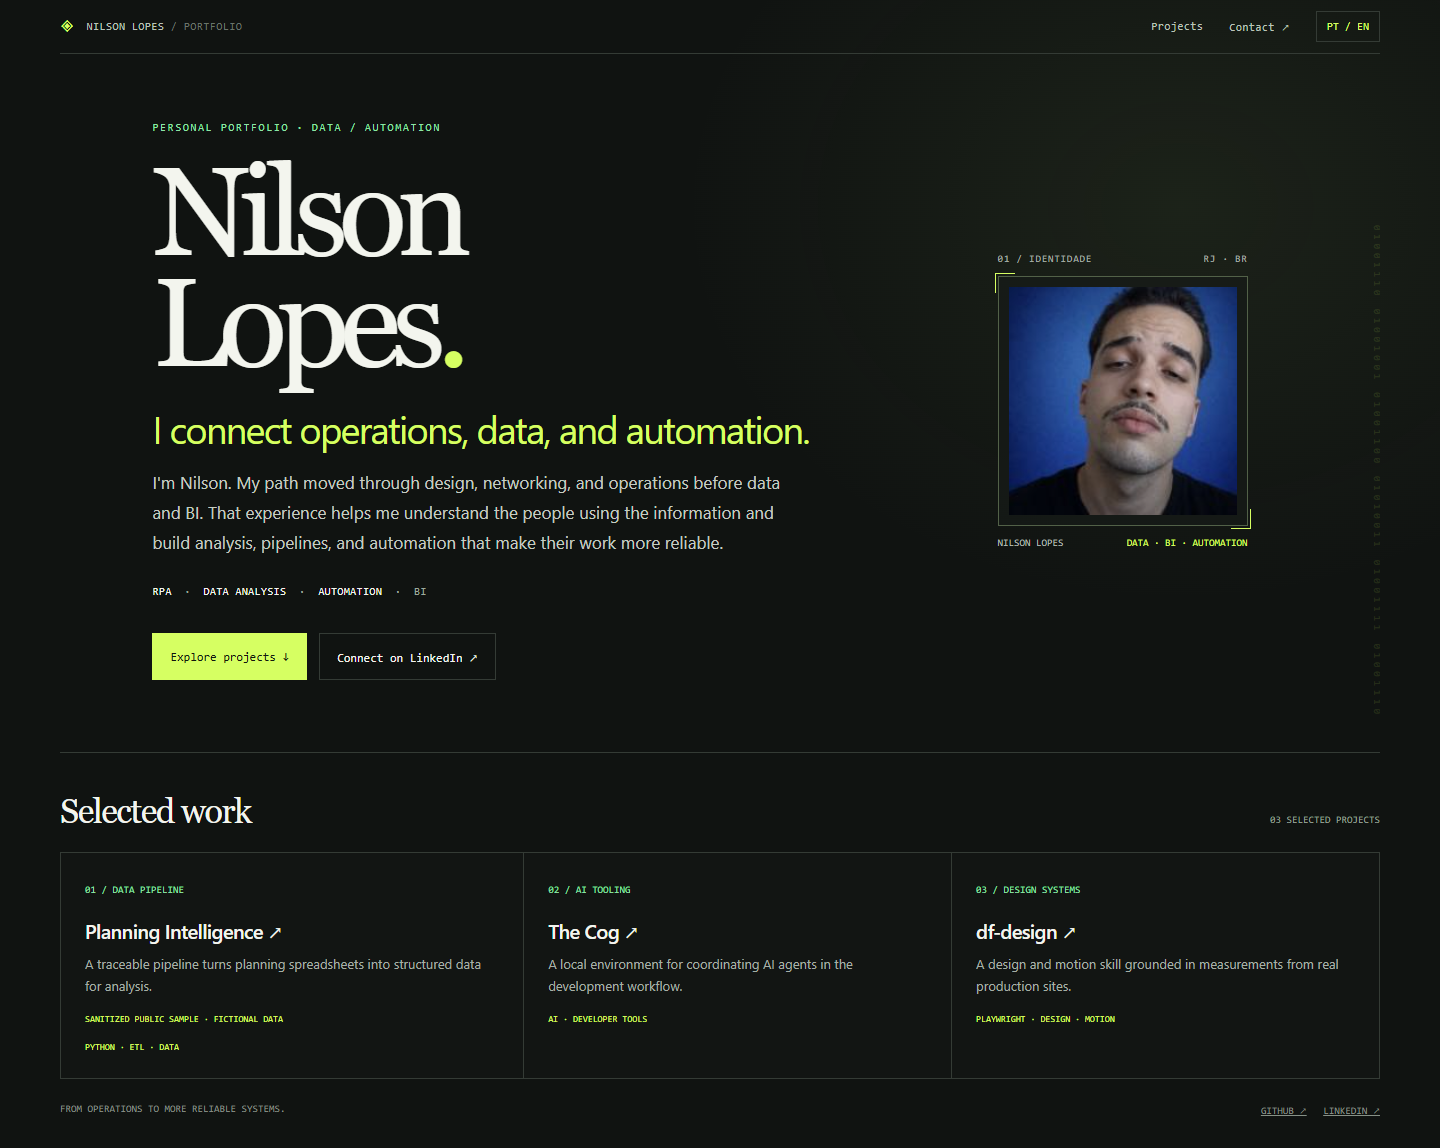
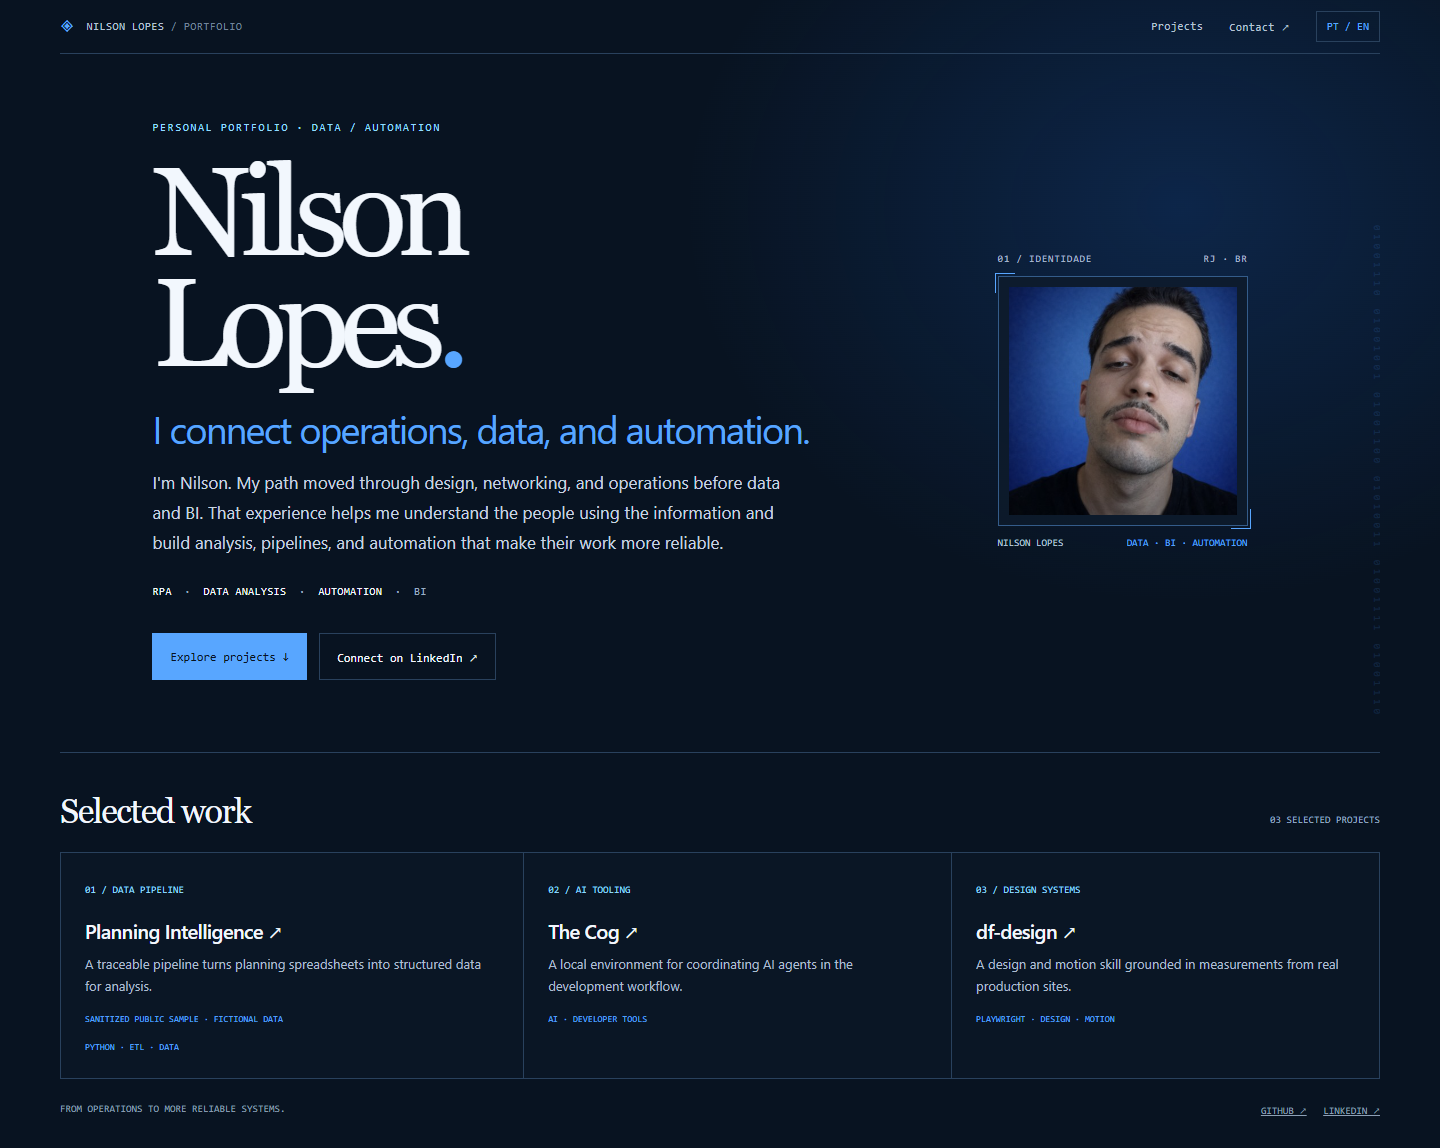
Match portfolio preview palette to portrait

diff --git a/design/preview/index.html b/design/preview/index.html
@@ -3,19 +3,19 @@
 <head>
   <meta charset="utf-8">
   <meta name="viewport" content="width=device-width, initial-scale=1">
-  <meta name="theme-color" content="#101311">
+  <meta name="theme-color" content="#081321">
   <link rel="icon" href="data:,">
   <title>Nilson Lopes — Portfólio / preview</title>
   <style>
     :root {
       color-scheme: dark;
-      --bg: #101311;
-      --panel: #151a17;
-      --line: #343b35;
-      --muted: #a1aaa1;
-      --paper: #f3f5ee;
-      --acid: #d6ff62;
-      --mint: #8ce5a4;
+      --bg: #081321;
+      --panel: #0f1d2e;
+      --line: #29415d;
+      --muted: #a7b7c8;
+      --paper: #f2f7fd;
+      --signal: #58a6ff;
+      --cyan: #91dcff;
       --mono: "Cascadia Code", "SFMono-Regular", Consolas, monospace;
       --sans: "Aptos", "Segoe UI", Arial, sans-serif;
       --serif: Georgia, "Times New Roman", serif;
@@ -27,7 +27,7 @@
       color: var(--paper);
       font-family: var(--sans);
       background:
-        radial-gradient(ellipse at 82% 18%, rgba(126, 159, 92, .11), transparent 31rem),
+        radial-gradient(ellipse at 82% 18%, rgba(32, 113, 232, .20), transparent 31rem),
         var(--bg);
     }
     a { color: inherit; }
@@ -35,14 +35,14 @@
     .mono { font-family: var(--mono); }
     .topline {
       height: 54px; border-bottom: 1px solid var(--line); display: flex;
-      align-items: center; justify-content: space-between; color: #bbc3b9;
+      align-items: center; justify-content: space-between; color: #b5c3d4;
       font: 11px var(--mono); letter-spacing: .04em;
     }
     .brand { display: flex; align-items: center; gap: 12px; }
-    .brand-mark { color: var(--acid); font-size: 17px; }
+    .brand-mark { color: var(--signal); font-size: 17px; }
     .top-right { display: flex; align-items: center; gap: 26px; }
     .top-right a { text-decoration: none; }
-    .lang { border: 1px solid var(--line); padding: 8px 10px; color: var(--acid); background: transparent; font: 11px var(--mono); cursor: pointer; }
+    .lang { border: 1px solid var(--line); padding: 8px 10px; color: var(--signal); background: transparent; font: 11px var(--mono); cursor: pointer; }
     .hero {
       min-height: 610px; display: grid; grid-template-columns: minmax(0, 1.5fr) minmax(300px, .7fr);
       align-items: center; gap: 9%; padding: 67px 7% 72px; position: relative; overflow: hidden;
@@ -50,43 +50,43 @@
     }
     .hero::before {
       content: "01001110  01001001  01001100  01010011  01001111  01001110";
-      position: absolute; right: -3px; bottom: 35px; color: rgba(214,255,98,.10);
+      position: absolute; right: -3px; bottom: 35px; color: rgba(88,166,255,.12);
       font: 10px var(--mono); letter-spacing: .38em; writing-mode: vertical-rl;
     }
     .hero-copy { position: relative; z-index: 1; }
-    .eyebrow { margin: 0 0 22px; color: var(--mint); font: 11px var(--mono); letter-spacing: .14em; text-transform: uppercase; }
+    .eyebrow { margin: 0 0 22px; color: var(--cyan); font: 11px var(--mono); letter-spacing: .14em; text-transform: uppercase; }
     h1 { margin: 0; font: 500 clamp(64px, 9vw, 126px)/.88 var(--serif); letter-spacing: -.075em; }
-    .role-line { margin: 30px 0 18px; max-width: 720px; color: var(--acid); font-size: clamp(23px, 3vw, 38px); line-height: 1.12; letter-spacing: -.045em; }
-    .intro { max-width: 640px; margin: 0; color: #c5ccc2; font-size: 17px; line-height: 1.75; }
-    .focus { margin-top: 24px; color: #9da89e; font: 11px/1.9 var(--mono); letter-spacing: .03em; }
+    .role-line { margin: 30px 0 18px; max-width: 720px; color: var(--signal); font-size: clamp(23px, 3vw, 38px); line-height: 1.12; letter-spacing: -.045em; }
+    .intro { max-width: 640px; margin: 0; color: #c8d4e2; font-size: 17px; line-height: 1.75; }
+    .focus { margin-top: 24px; color: #9aadc3; font: 11px/1.9 var(--mono); letter-spacing: .03em; }
     .focus b { color: var(--paper); font-weight: 400; }
     .actions { margin-top: 31px; display: flex; gap: 12px; flex-wrap: wrap; }
     .button { display: inline-flex; justify-content: center; align-items: center; min-height: 47px; padding: 0 17px; text-decoration: none; font: 12px var(--mono); border: 1px solid var(--line); transition: border-color .2s, background .2s, color .2s; }
-    .button.primary { background: var(--acid); color: #12170d; border-color: var(--acid); }
-    .button:hover { border-color: var(--acid); }
-    .button.primary:hover { background: #e5ff9e; }
+    .button.primary { background: var(--signal); color: #071321; border-color: var(--signal); }
+    .button:hover { border-color: var(--signal); }
+    .button.primary:hover { background: #8dc7ff; }
     .portrait-wrap { justify-self: end; width: min(100%, 250px); position: relative; }
-    .portrait-meta { display: flex; justify-content: space-between; margin-bottom: 11px; color: #a4aea5; font: 10px var(--mono); letter-spacing: .08em; }
-    .portrait-frame { position: relative; border: 1px solid #526148; padding: 10px; background: rgba(21,26,23,.7); }
-    .portrait-frame::before, .portrait-frame::after { content: ""; position: absolute; width: 19px; height: 19px; border-color: var(--acid); border-style: solid; }
+    .portrait-meta { display: flex; justify-content: space-between; margin-bottom: 11px; color: #a9b9cd; font: 10px var(--mono); letter-spacing: .08em; }
+    .portrait-frame { position: relative; border: 1px solid #345c8a; padding: 10px; background: rgba(13,26,43,.84); }
+    .portrait-frame::before, .portrait-frame::after { content: ""; position: absolute; width: 19px; height: 19px; border-color: var(--signal); border-style: solid; }
     .portrait-frame::before { top: -4px; left: -4px; border-width: 1px 0 0 1px; }
     .portrait-frame::after { right: -4px; bottom: -4px; border-width: 0 1px 1px 0; }
     .portrait { display: block; width: 100%; aspect-ratio: 1; object-fit: cover; object-position: center 38%; filter: saturate(.76) contrast(1.04); }
-    .portrait-caption { display: flex; justify-content: space-between; gap: 10px; margin-top: 11px; color: #b1bbb1; font: 10px var(--mono); }
-    .portrait-caption span:last-child { color: var(--acid); }
+    .portrait-caption { display: flex; justify-content: space-between; gap: 10px; margin-top: 11px; color: #b4c5d8; font: 10px var(--mono); }
+    .portrait-caption span:last-child { color: var(--signal); }
     .section-head { display: flex; align-items: baseline; justify-content: space-between; gap: 20px; padding: 39px 0 22px; }
     .section-head h2 { margin: 0; font: 500 34px var(--serif); letter-spacing: -.04em; }
-    .section-head p { margin: 0; color: #96a096; font: 10px var(--mono); }
+    .section-head p { margin: 0; color: #98adc4; font: 10px var(--mono); }
     .projects { display: grid; grid-template-columns: 1.08fr 1fr 1fr; border: 1px solid var(--line); }
-    .project { padding: 23px 24px 26px; min-height: 190px; position: relative; background: rgba(21,26,23,.4); }
+    .project { padding: 23px 24px 26px; min-height: 190px; position: relative; background: rgba(13,26,43,.45); }
     .project + .project { border-left: 1px solid var(--line); }
-    .project-index { color: var(--mint); font: 10px var(--mono); }
+    .project-index { color: var(--cyan); font: 10px var(--mono); }
     .project h3 { margin: 20px 0 9px; color: var(--paper); font-size: 20px; font-weight: 500; letter-spacing: -.03em; }
     .project h3 a { text-decoration: none; }
-    .project h3 a:hover { color: var(--acid); }
-    .project p { margin: 0; color: #a6afa6; font-size: 13px; line-height: 1.65; }
-    .project .stack { display: block; margin-top: 18px; color: #d6ff62; font: 9px var(--mono); }
-    .foot { display: flex; justify-content: space-between; padding: 24px 0 31px; color: #879187; font: 10px var(--mono); }
+    .project h3 a:hover { color: var(--signal); }
+    .project p { margin: 0; color: #adbdcf; font-size: 13px; line-height: 1.65; }
+    .project .stack { display: block; margin-top: 18px; color: var(--signal); font: 9px var(--mono); }
+    .foot { display: flex; justify-content: space-between; padding: 24px 0 31px; color: #8da0b6; font: 10px var(--mono); }
     @media (max-width: 760px) {
       .page { width: min(100% - 36px, 600px); }
       .topline { height: 51px; }
@@ -115,7 +115,7 @@
 </head>
 <body>
   <header class="topline page">
-    <div class="brand"><span class="brand-mark">◈</span><span>NILSON LOPES <span style="color:#69746b">/ PORTFOLIO</span></span></div>
+    <div class="brand"><span class="brand-mark">◈</span><span>NILSON LOPES <span style="color:#71849b">/ PORTFOLIO</span></span></div>
     <nav class="top-right" aria-label="Main navigation">
       <a class="nav-link" href="#projetos" data-i18n="navWork">Projetos</a>
       <a class="nav-link" href="https://www.linkedin.com/in/nilsondgwm/" target="_blank" rel="noreferrer" data-i18n="navContact">Contato ↗</a>
@@ -127,7 +127,7 @@
     <section class="hero" aria-labelledby="hero-name">
       <div class="hero-copy">
         <p class="eyebrow" data-i18n="eyebrow">PORTFÓLIO PESSOAL · DADOS / AUTOMAÇÃO</p>
-        <h1 id="hero-name">Nilson<br>Lopes<span style="color:var(--acid)">.</span></h1>
+        <h1 id="hero-name">Nilson<br>Lopes<span style="color:var(--signal)">.</span></h1>
         <p class="role-line" data-i18n="role">Eu conecto operação, dados e automação.</p>
         <p class="intro" data-i18n="intro">Sou Nilson. Minha trajetória passou pelo design, por redes e por operações antes de chegar a dados e BI. Essa experiência me ajuda a entender o problema de quem usa a informação e a construir análises, pipelines e automações que tornam o trabalho mais confiável.</p>
         <p class="focus"><b>RPA</b> &nbsp;·&nbsp; <b data-i18n="dataAnalysis">ANÁLISE DE DADOS</b> &nbsp;·&nbsp; <b data-i18n="automation">AUTOMAÇÃO</b> &nbsp;·&nbsp; BI</p>
@@ -138,7 +138,7 @@
       </div>
       <figure class="portrait-wrap">
         <div class="portrait-meta"><span>01 / IDENTIDADE</span><span>RJ · BR</span></div>
-        <div class="portrait-frame"><img class="portrait" src="github-avatar.jpg" alt="Foto de perfil de Nilson Lopes"></div>
+        <div class="portrait-frame"><img class="portrait" src="nilson-lopes.jpg" alt="Foto de perfil de Nilson Lopes"></div>
         <figcaption class="portrait-caption"><span>NILSON LOPES</span><span>DATA · BI · AUTOMATION</span></figcaption>
       </figure>
     </section>

diff --git a/design/portfolio-identity-revision.md b/design/portfolio-identity-revision.md
@@ -16,16 +16,16 @@ an abstract service.
 - **Languages:** Portuguese and English, with a visible language switch and
   equivalent content in both languages.
 - **Devices:** responsive desktop and mobile layouts.
-- **Identity:** A's dark terminal/ASCII direction, with ASCII used as a supporting
-  motif. A real portrait and human introduction lead the page; terminal styling
-  must not obscure the person or the projects.
-- **Assets:** use Nilson's own material only. The verified GitHub profile photo is
-  a 200px square crop and looks too soft for the large, prominent portrait this
-  direction needs. The concept preview uses it temporarily at a restrained size
-  so the person-first composition can be reviewed. Request an original portrait
-  from Nilson before final implementation. Do not use stock or generate a
-  substitute. The profile photo may appear in the finished site only if Nilson
-  explicitly chooses it and it is presented at a size that preserves its quality.
+- **Identity:** A's dark terminal/ASCII direction, recoloured to the saturated
+  royal blue and cyan in Nilson's portrait. Use a deep navy ground (`#081321`),
+  a bright blue signal (`#58a6ff`), and pale cyan (`#91dcff`); keep blue as the
+  single loud accent. ASCII remains a supporting motif. A real portrait and
+  human introduction lead the page; terminal styling must not obscure the
+  person or the projects.
+- **Assets:** use Nilson's own material only. The concept preview initially used
+  the GitHub crop; Nilson has now supplied the original 400 × 400 portrait. Use
+  that portrait in the concept and final site. Do not use stock or generate a
+  substitute.
 - **Motion:** retain the previously selected High tier for restrained data-lineage
   motion; honor `prefers-reduced-motion` and keep content readable without motion.
 - **Delivery:** finished bilingual website plus a PDF export of the selected

diff --git a/design/preview/README.md b/design/preview/README.md
@@ -29,7 +29,5 @@ Open `index.html` in a browser, or serve the repository root and visit
 
 ## Portrait
 
-`github-avatar.jpg` is the 200 × 200 image currently used on Nilson's public
-GitHub profile. It is included only to make the layout reviewable. Nilson should
-provide a higher-resolution portrait or explicitly approve this image before
-the final implementation uses it.
+`nilson-lopes.jpg` is Nilson's uploaded 400 × 400 portrait. It replaces the
+lower-resolution GitHub crop and is used in the preview with his approval.
